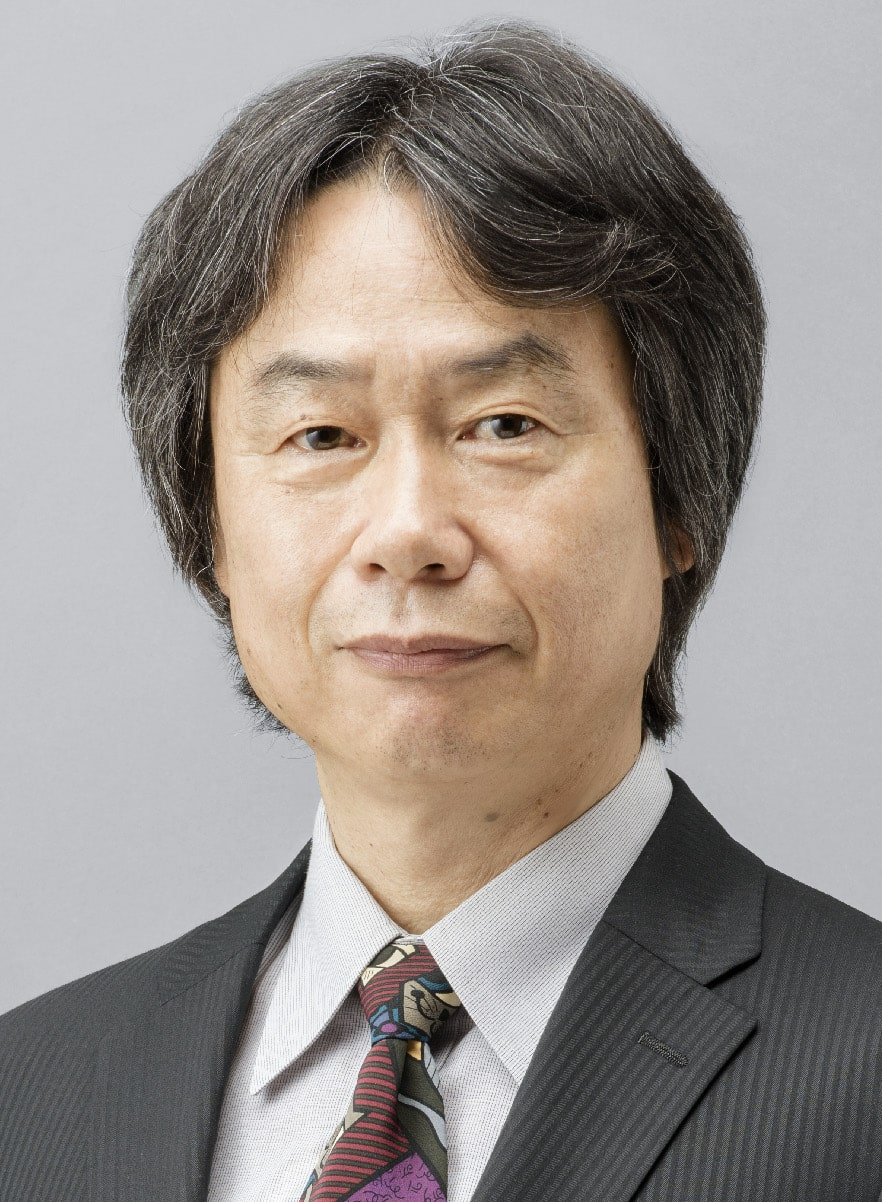
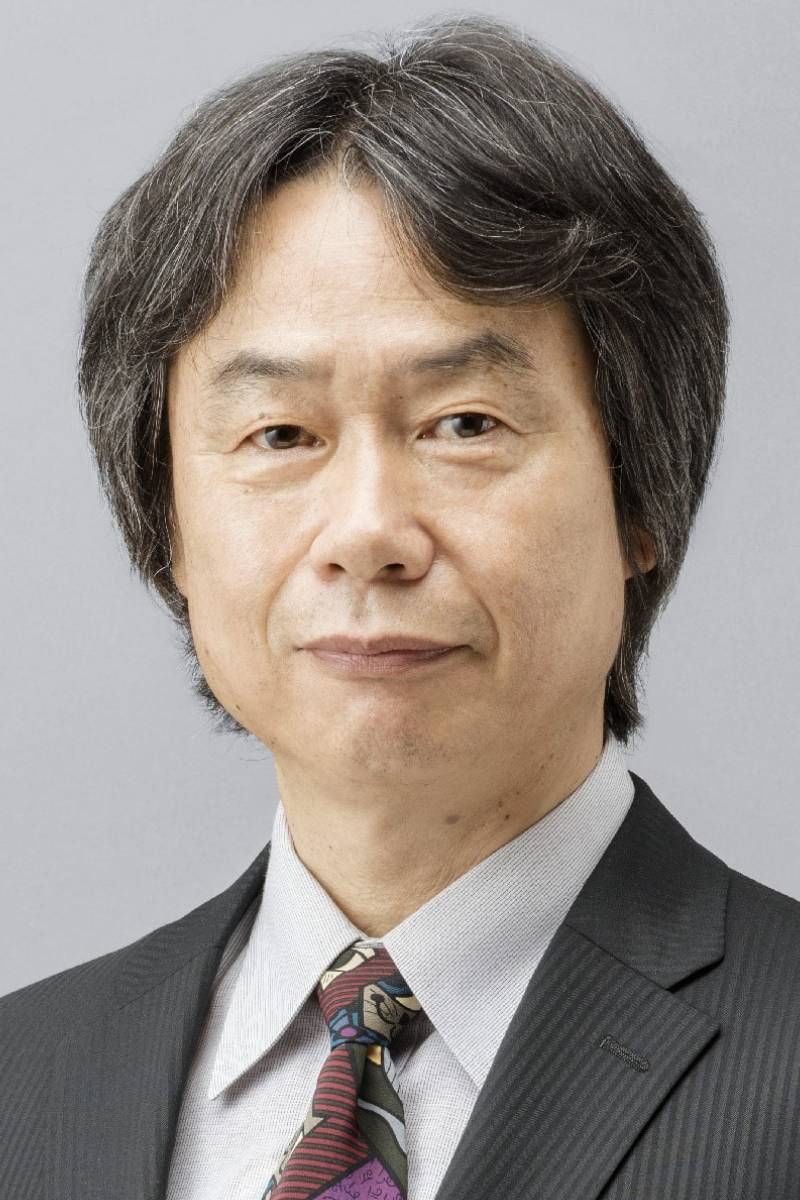
Website Styling Clean Up, Standardized Image Sizes

diff --git a/scss/style.scss b/scss/style.scss
@@ -187,9 +187,14 @@ ul {
 
 .tribute-info {
     padding: 30px 20px;
-    
+
     ul {
         padding-left: 5vw;
+
+        li {
+            margin: auto;
+            max-width: 420px;
+        }
     }
 }
 
@@ -223,7 +228,7 @@ ul {
 footer {
     color: $text-sub-color;
     background-color: $bg-sub-color;
-    padding: 25px 0px 25px 0px;
+    padding: 25px 10px;
 
     a {
         color: $text-sub-color;

diff --git a/css/style.css b/css/style.css
@@ -171,6 +171,11 @@ ul li::before {
   padding-left: 5vw;
 }
 
+.tribute-info ul li {
+  margin: auto;
+  max-width: 420px;
+}
+
 .tribute-info-ludography {
   padding-top: 40px;
 }
@@ -197,7 +202,7 @@ ul li::before {
 footer {
   color: #ffffff;
   background-color: #e60012;
-  padding: 25px 0px 25px 0px;
+  padding: 25px 10px;
 }
 
 footer a {
